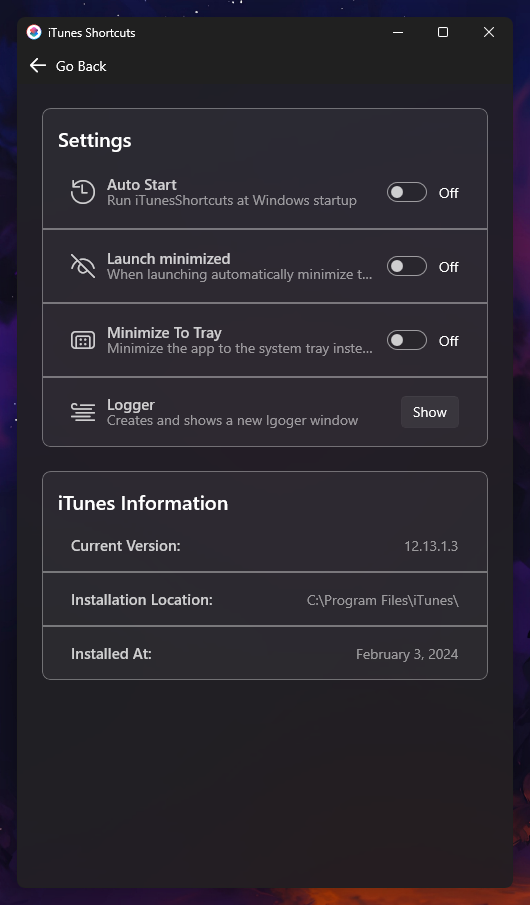
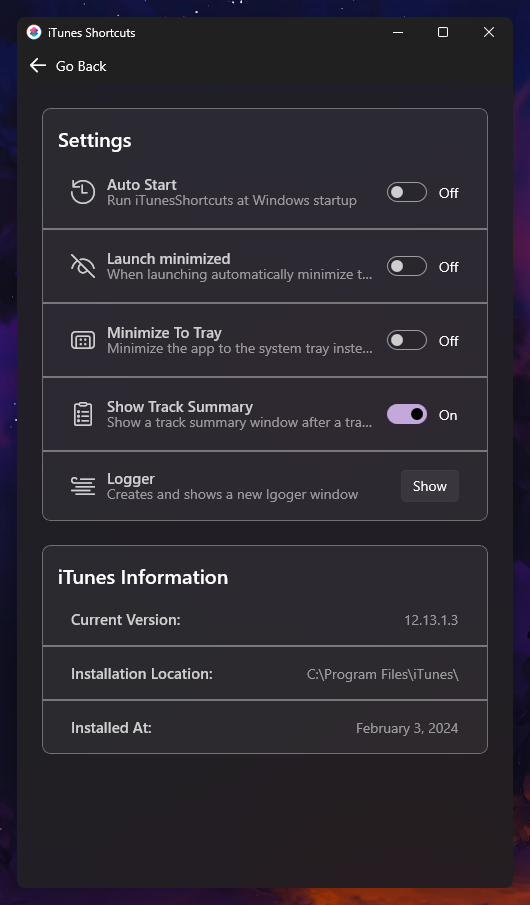
Updated readme for version 1.1.0

Changed region(s): [[0.0906, 0.4331, 0.9358, 0.8354], [0.5736, 0.6497, 0.8755, 0.8354], [0.7547, 0.5878, 0.8755, 0.6188]]

diff --git a/README.md b/README.md
@@ -1,2 +1,82 @@
-# ITunesShortcuts
- Easily manage your iTunes library with hotkeys
+# iTunes Shortcuts Manager
+
+iTunes Shortcuts Manager allows users to easily manage their currently playing iTunes tracks using customizable hotkeys.
+
+---
+
+## Features
+
+- **Customizable Hotkeys**: Users can define custom hotkeys for various actions such as getting current track infos & controlling media playback, adding the current track to a playlist, rating the track, and viewing lyrics.
+- **Flexible Configuration**: The application provides a user-friendly interface for adding and configuring shortcuts, including options for specifying key combinations, action types, and parameters.
+- **Visual Feedback**: Default Windows notifications are utilized to provide visual feedback when a hotkey is triggered, ensuring users are aware of the actions performed.
+- **Simple Installation**: Users can simply extract the zip file and run the program without any complicated setup process.
+- **Automatic Track Summaries**: Optionally users can enable a Track Summary which gets shown automatically after a track gets finished to easily rate the track or add it to a playlist.
+- **Integration with iTunes**: The application is designed specifically for iTunes, providing seamless integration and enhanced control over the iTunes library.
+
+---
+
+## Screenshots
+
+Here are some screenshots showcasing the interface of iTunes Shortcuts Manager:
+
+### Pages:
+<table>
+  <tr>
+    <td><img src="Screenshots/HomeView.png" alt="HomeView"></td>
+    <td><img src="Screenshots/CreateView.png" alt="CreateView"></td>
+    <td><img src="Screenshots/SettingsView.png" alt="SettingsView"></td>
+  </tr>
+</table>
+
+### Notifications:
+<table>
+  <tr>
+    <td><img src="Screenshots/GetNotification.png" alt="GetNotification"></td>
+    <td><img src="Screenshots/RateNotification.png" alt="RateNotification"></td>
+    <td><img src="Screenshots/PlaylistNotification.gif" alt="PlaylistNotification"></td>
+    <td><img src="Screenshots/LycricsWindow.gif" alt="LyricsWindow"></td>
+    <td><img src="Screenshots/TrackSummaryWindow.png" alt="TrackSummaryWindow"></td>
+  </tr>
+</table>
+
+---
+
+## Usage
+
+1. **Installation**: Download the application from the Releases tab and extract the zip file.
+2. **Configuration**: Launch the application and add new shortcuts. Customize the shortcut name, action, parameters, key, and modifier according to your preferences.
+3. **Managing Shortcuts**: Once configured, the application will run in the background, allowing you to easily manage your iTunes tracks using the defined hotkeys.
+
+---
+
+## System Requirements
+
+- Windows 10 (Build 17763) or later
+- iTunes installed (x64 Version)
+
+---
+
+## Dependencies
+
+The application relies on the following dependencies:
+- CommunityToolkit.Mvvm (v8.2.2)
+- H.NotifyIcon (v2.0.131)
+- Microsoft.Extensions.Hosting (v8.0.0)
+- Microsoft.Extensions.Hosting.Abstractions (v8.0.0)
+- Microsoft.Graphics.Win2D (v1.2.0)
+- Microsoft.WindowsAppSDK (v1.5.240428000
+- Microsoft.Windows.SDK.BuildTools (v10.0.22621.3233)
+- Serilog (v3.1.1)
+- Serilog.Extensions.Hosting (v8.0.0)
+- Serilog.Sinks.Debug (v2.0.0)
+- Serilog.Sinks.File (v5.0.0)
+
+---
+
+## Contributing
+
+Contributions to the project are welcome! If you have any feature requests, bug reports, or suggestions for improvements, feel free to open a new pull request or issue on GitHub.
+
+## License
+
+This project is licensed under the [AGPL-3.0 License](LICENSE).
